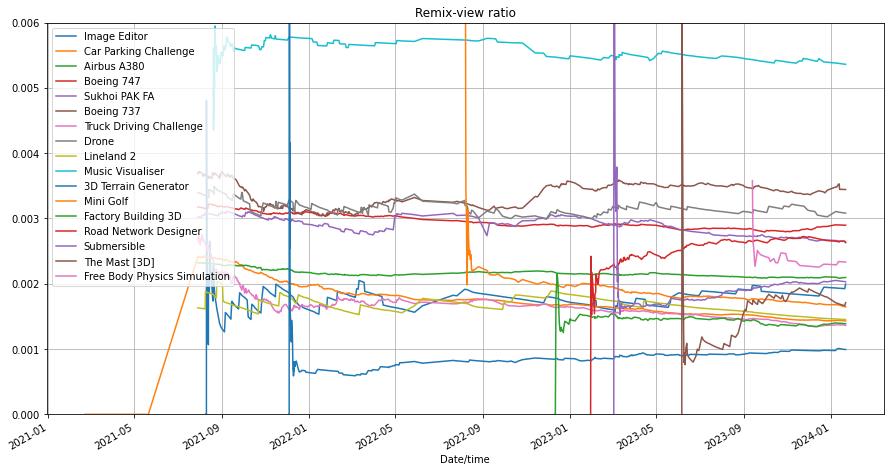
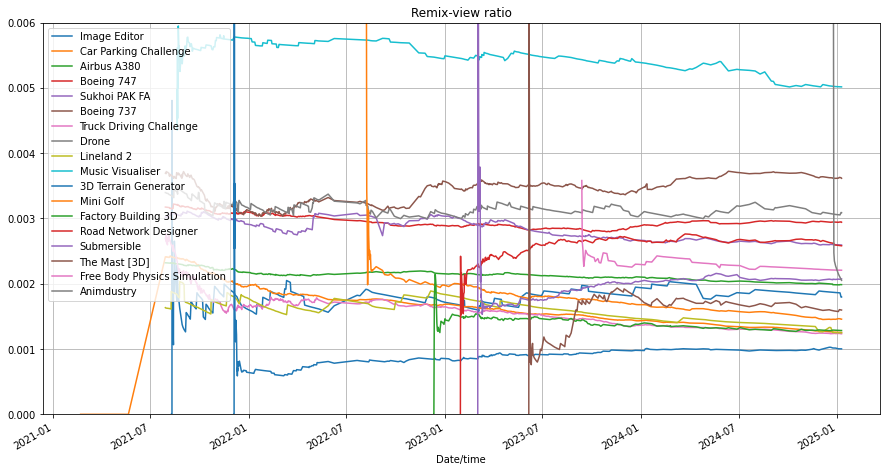
update statistics

diff --git a/articles/statistics.html b/articles/statistics.html
@@ -6,6 +6,9 @@
   <meta name="viewport" content="width=device-width, initial-scale=1">
   <link rel="stylesheet" href="/css/main.css">
   <link rel="stylesheet" href="https://fonts.googleapis.com/css?family=Lato">
+  <style>
+    .caption {color: rgb(112, 112, 112); font-size: 1em; line-height: 1.1em; margin-bottom: 1em; margin-top: 0;}
+  </style>
 </head>
 
 <body>
@@ -23,15 +26,29 @@
     <hr>
     <p>I have extensive records of statistics. I have some Python scripts to log these stats semi-automatically. Here are some graphs...</p>
     
-    <img src="/img/stats/followers all time.png" loading="lazy" title="The 3 different lines correspond to different data sources. The API includes deleted accounts which is why it is a bit higher than the others. Visible followers is the number as seen in the followers page. The stats early on are manually added from screenshots and archives I made of my account. Scratch DB is an unofficial API and can also report the follower count but it's a bit slow to update.">
-    <img src="/img/stats/followers close up.png" loading="lazy" title="A close-up of the above graph.">
-    <img src="/img/stats/follower gain.png" loading="lazy" title="The change in follower count over time. Uses the same data as the above two graphs. On average I get 1 follower every 2 hours. Spikes indicate high follower gains (occurs when I share projects).">
-    <img src="/img/stats/views.png" loading="lazy" title="Views for a bunch of notable projects. Car Parking Challenge is by far the most popular.">
-    <img src="/img/stats/views when shared.png" loading="lazy" title="Views for my projects, aligned so performance can be compared. Some projects get on trending, others don't.">
-    <img src="/img/stats/lvr.png" loading="lazy" title="views/loves. Higher is better (more loves).">
-    <img src="/img/stats/lfr.png" loading="lazy" title="loves/favorites. Lower means more favorites (which is probably a good thing).">
-    <img src="/img/stats/rvr.png" loading="lazy" title="remixes/views. Higher means more remixes.">
-    <img src="/img/stats/messages per day.png" loading="lazy" title="Messages received per day.">
+    <img src="/img/stats/followers all time.png" loading="lazy">
+    <p class="caption">The 3 different lines correspond to different data sources. The API includes deleted accounts which is why it is a bit higher than the others. Visible followers is the number as seen in the followers page. The stats early on are manually added from screenshots and archives I made of my account. Scratch DB was an unofficial API pulling data from the official API.</p><br>
+    
+    <img src="/img/stats/follower gain.png" loading="lazy">
+    <p class="caption">The change in follower count over time. Uses the same data as the previous graph. Spikes indicate high follower gains (occurs when I share projects).</p><br>
+
+    <img src="/img/stats/views.png" loading="lazy">
+    <p class="caption">Views for a bunch of notable projects. Car Parking Challenge is by far the most popular.</p><br>
+
+    <img src="/img/stats/views when shared.png" loading="lazy">
+    <p class="caption">Views for my projects, aligned so performance can be compared. Some projects get on trending, others don't.</p><br>
+
+    <img src="/img/stats/lvr.png" loading="lazy">
+    <p class="caption">views/loves. Higher is better (more views turned into loves).</p><br>
+
+    <img src="/img/stats/lfr.png" loading="lazy">
+    <p class="caption">loves/favorites. Lower means more favorites (which is probably a good thing, they are more valuable than loves).</p><br>
+
+    <img src="/img/stats/rvr.png" loading="lazy">
+    <p class="caption">remixes/views. Higher means more remixes. Some projects inflence more remixing than others.</p><br>
+
+    <img src="/img/stats/messages per day.png" loading="lazy">
+    <p class="caption">Messages received per day. The many sharp peaks and dips correspond to weekdays and weekends, respectively. The largest peaks are due to sharing projects (The Mast and Animdustry). Pictured is approximately 76000 messages.</p><br>
 
 </div>
 
